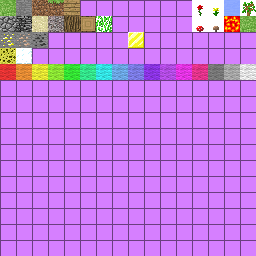
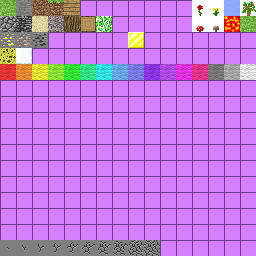
patch c0.25_05_st: view bobbing, anaglyph, mining cracks, sky color

Changed region(s): [[0.0, 0.9375, 0.625, 1.0]]

diff --git a/c0.25_05_st/src/renderer/textures.h b/c0.25_05_st/src/renderer/textures.h
@@ -6,7 +6,11 @@
 #include <GL/glew.h>
 #include <stdio.h>
 #include <stdlib.h>
+#include <stdbool.h>
 
 GLuint loadTexture(const char* path, int filterMode);
+
+// re-uploads every loaded texture when the value changes
+void Textures_setAnaglyph(bool enabled);
 
 #endif  // TEXTURES_H
